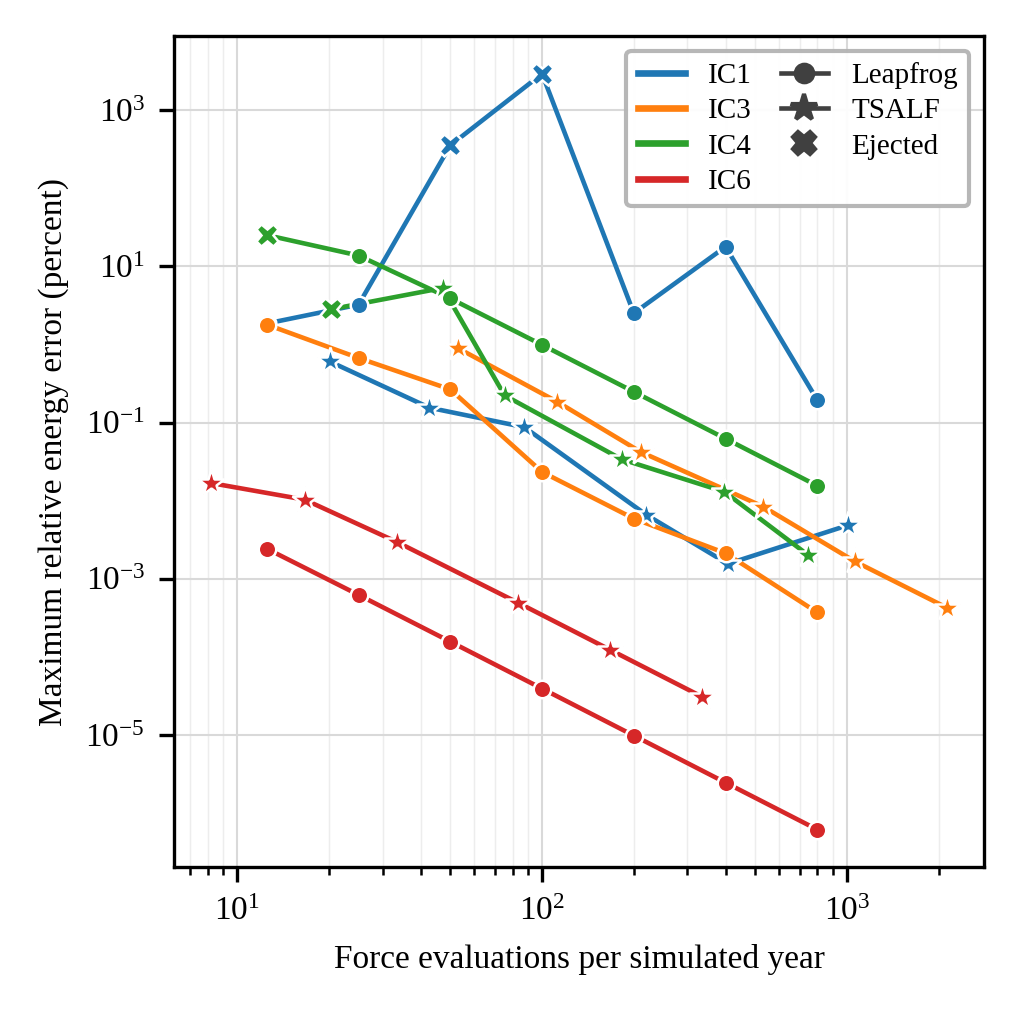
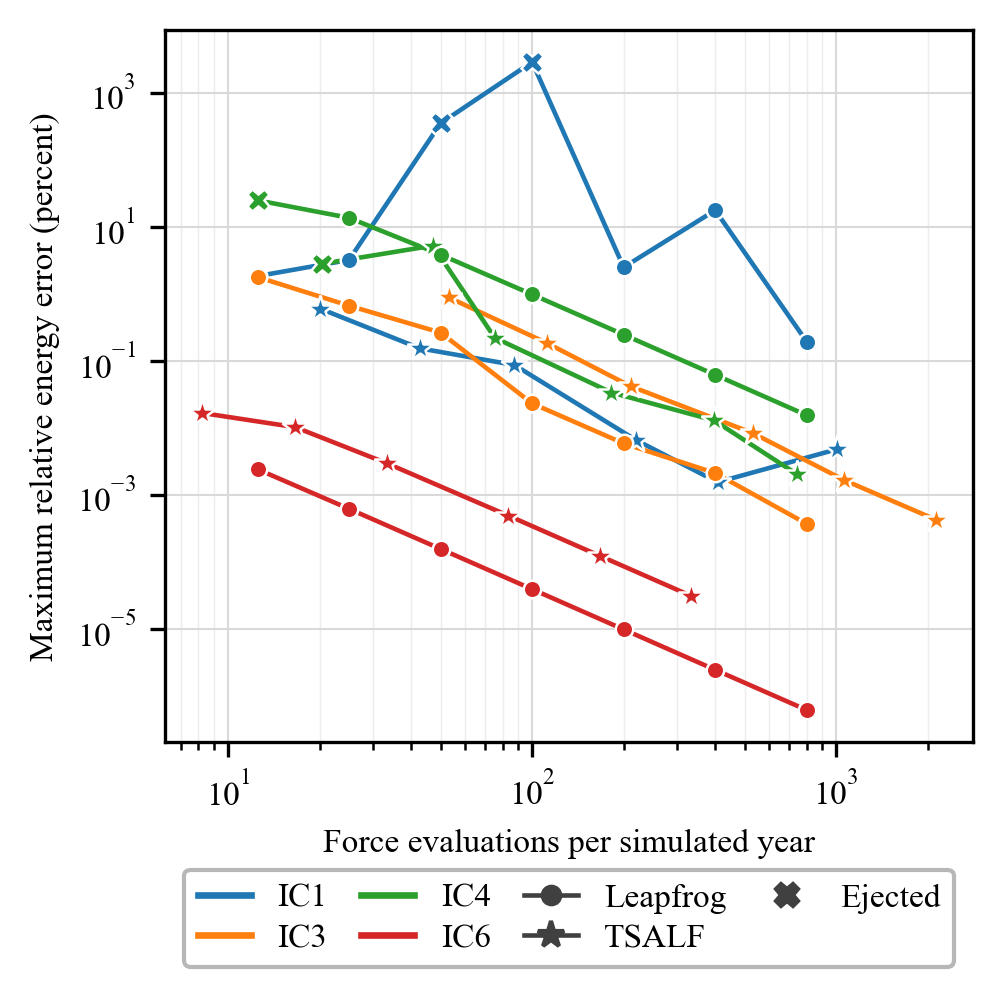
Changes in figures and citation

diff --git a/scripts/make_fig3.py b/scripts/make_fig3.py
@@ -7,21 +7,34 @@ TSALF cost, so above one means TSALF is the cheaper method.
 
 Reads the table written by make_speed_table_ns5001.py and re-runs nothing.
 
+UNITS. Panel (a) is matched on maximum relative energy error, which is a
+percentage. Panel (b) is matched on short-horizon position RMS, which is a
+distance in the dimensionless units of Table I (G = 1), not a percentage.
+
 PINNED POINTS. A matched-accuracy ratio only means something when both methods
 were actually run at a setting that meets the target. When a method's coarsest
 setting tested already beats the target, the table reports the cost of that
 coarsest run, which is an upper bound on what the method would need, not a
-measurement of what it needs. Those points are drawn as open markers here. On
+measurement of what it needs. Those points are drawn as open circles here. On
 IC6 in the energy panel every point is of this kind, because leapfrog at
-dt = 0.08 is already at 0.00242 percent and TSALF at eta = 0.2 is already at
-0.0168 percent, so the flat 1.53 ratio is just 1251 divided by 820, the ratio
-of the two cheapest runs in the sweep. It is not evidence that TSALF is cheaper
-on IC6, and it does not contradict Fig. 1: IC6 needs no refinement from either
-method, so the matched-accuracy question does not bind there.
+dt = 0.08 is already at 0.00242 percent, below every target in the panel, so
+its cost is pinned at 1251 force evaluations throughout. At the four coarsest
+targets TSALF is likewise pinned, at eta = 0.2 and 820 force evaluations, so
+the 1.53 ratio there is just 1251 divided by 820, the ratio of the two cheapest
+runs in the sweep. It is not evidence that TSALF is cheaper on IC6, and it does
+not contradict Fig. 1: IC6 needs no refinement from either method, so the
+matched-accuracy question does not bind there.
+
+UNREACHABLE TARGETS. Some targets fixed-step leapfrog never meets while every
+body stays bound, however fine the timestep, so the cost ratio is not a finite
+number and there is nowhere on the axis to put it. Those points sit in a
+narrow panel past an axis break, under the tick "never". The break marks say
+the axis is cut there, so the squares are not read as very large ratios.
 
 Drawn to the CJSJ template's figure specification: single column width, 8 point
-Times New Roman, axis labels in words rather than symbols or abbreviations,
-units in parentheses, no chart title, 300 dpi.
+Times New Roman throughout including the legend and every in-plot note, axis
+labels in words rather than symbols or abbreviations, units in parentheses, no
+chart title, 300 dpi.
 
 Usage:  python make_fig3.py [speed_table.txt] [out.png]
 """
@@ -29,6 +42,7 @@ import sys, os, re
 import matplotlib; matplotlib.use("Agg")
 import matplotlib.pyplot as plt
 from matplotlib.lines import Line2D
+from matplotlib.gridspec import GridSpec
 
 HERE = os.path.dirname(os.path.abspath(__file__))
 ROOT = os.path.dirname(HERE)
@@ -77,28 +91,39 @@ for line in TEXT.splitlines():
         unre[cfg][mode].append(float(m.group(1)))
 
 # ---------------------------------------------------------------- draw
+PT = 8
 plt.rcParams.update({
     "font.family": "serif",
     "font.serif": ["Times New Roman", "Liberation Serif", "Nimbus Roman", "DejaVu Serif"],
-    "font.size": 8, "axes.linewidth": 0.8,
-    "xtick.labelsize": 8, "ytick.labelsize": 8,
-    "legend.fontsize": 7, "axes.labelsize": 8,
+    "font.size": PT, "axes.linewidth": 0.8,
+    "xtick.labelsize": PT, "ytick.labelsize": PT,
+    "legend.fontsize": PT, "axes.labelsize": PT, "axes.titlesize": PT,
+    "mathtext.fontset": "custom", "mathtext.rm": "Times New Roman",
+    "mathtext.it": "Times New Roman:italic",
 })
 COLUMN_IN = 3.4
-fig, axs = plt.subplots(2, 1, figsize=(COLUMN_IN, COLUMN_IN * 1.48))
+fig = plt.figure(figsize=(COLUMN_IN, 4.55))
+gs = GridSpec(2, 2, figure=fig, width_ratios=[1, 0.13], wspace=0.06,
+              hspace=0.52, left=0.215, right=0.975, top=0.960, bottom=0.215)
+
 PANELS = [
-    (axs[0], "energy", "Target maximum relative\nenergy error (percent)",
-     "(a) Matched on energy error"),
-    (axs[1], "rms", "Target short-horizon\nposition error",
-     "(b) Matched on short-horizon position error"),
+    (0, "energy", "Target maximum relative\nenergy error (percent)",
+     "(a) Matched on energy error",
+     [1.0, 0.3, 0.1, 0.03, 0.01], ["1.0", "0.3", "0.1", "0.03", "0.01"],
+     [0.3, 1, 3, 10], ["0.3", "1", "3", "10"]),
+    (1, "rms", "Target short-horizon position\nerror (dimensionless units)",
+     "(b) Matched on position error",
+     [0.05, 0.02, 0.01, 0.005, 0.002], ["0.05", "0.02", "0.01", "0.005", "0.002"],
+     [0.3, 0.5, 0.7, 1.0], ["0.3", "0.5", "0.7", "1.0"]),
 ]
 seen = {}
-for ax, mode, ylab, title in PANELS:
+for row, mode, ylab, title, yticks, ylabels, xticks, xlabels in PANELS:
+    ax = fig.add_subplot(gs[row, 0])
+    bx = fig.add_subplot(gs[row, 1], sharey=ax)
     xs = [r for c in CFG for _, r, _ in data[c][mode]]
-    if not xs: continue
     lo, hi = min(xs), max(xs)
-    edge = hi * 2.6                                   # parking spot for unreachable
     any_un = any(unre[c][mode] for c in CFG)
+
     for c in CFG:
         pts = sorted(data[c][mode])
         if pts:
@@ -114,41 +139,57 @@ for ax, mode, ylab, title in PANELS:
                             mec="white", mew=0.5, ls="none", zorder=4)
         for t in unre[c][mode]:
             seen["un"] = True
-            ax.plot([edge], [t], marker="s", ms=4.6, mfc="none", mew=1.1,
-                    color=COL[c], ls="none", zorder=4)
+            bx.plot([0.5], [t], marker="s", ms=4.6, mfc="none", mew=1.1,
+                    color=COL[c], ls="none", zorder=4, clip_on=False)
+
     ax.axvline(1.0, color="k", lw=0.9, ls=":", zorder=1)
-    if any_un:
-        ax.axvspan(hi * 1.6, edge * 1.5, color="0.92", zorder=0)
     ys = [t for c in CFG for t, _, _ in data[c][mode]] + [t for c in CFG for t in unre[c][mode]]
     ax.set_xscale("log"); ax.set_yscale("log"); ax.invert_yaxis()
-    ax.set_xlim(lo / 1.8, edge * 1.5)
-    ax.set_ylim(max(ys) * 1.55, min(ys) / 1.55)
-    ax.set_xlabel("Cost ratio, leapfrog divided by TSALF", labelpad=2)
-    ax.set_ylabel(ylab, labelpad=2, fontsize=7.5)
-    ax.set_title(title, fontsize=8, loc="left", pad=3)
+    ax.set_xlim(lo / 1.9, hi * 1.9)
+    ax.set_ylim(max(ys) * 1.7, min(ys) / 1.7)
+    ax.set_yticks(yticks); ax.set_yticklabels(ylabels)
+    ax.set_yticks([], minor=True)
+    ax.set_xticks(xticks); ax.set_xticklabels(xlabels)
+    ax.set_xticks([], minor=True)
+    ax.set_ylabel(ylab, labelpad=2)
+    ax.set_title(title, loc="left", pad=3)
     ax.grid(alpha=0.25, which="both", lw=0.4, zorder=0)
-    ax.text(0.015, 0.035, "leapfrog cheaper", transform=ax.transAxes,
-            fontsize=6, color="0.35")
-    ax.text(0.985, 0.035, "TSALF cheaper", transform=ax.transAxes,
-            fontsize=6, color="0.35", ha="right")
+    ax.text(0.015, 0.030, "leapfrog cheaper", transform=ax.transAxes, color="0.35")
+    ax.text(0.985, 0.030, "TSALF cheaper", transform=ax.transAxes,
+            color="0.35", ha="right")
+    # x label centred under the pair of axes
+    ax.set_xlabel("Cost ratio, leapfrog divided by TSALF", labelpad=2, x=0.565)
+
+    # the narrow off-scale panel, past an axis break
+    bx.set_xlim(0, 1)
+    bx.set_xticks([0.5]); bx.set_xticklabels(["never"])
+    bx.tick_params(axis="y", which="both", left=False, labelleft=False)
+    bx.grid(axis="y", alpha=0.25, which="both", lw=0.4, zorder=0)
+    ax.spines["right"].set_visible(False)
+    bx.spines["left"].set_visible(False)
+    if not any_un:
+        bx.set_visible(False)
+        ax.spines["right"].set_visible(True)
+        ax.set_xlabel("Cost ratio, leapfrog divided by TSALF", labelpad=2, x=0.5)
+        continue
+    # break marks on the facing spines
+    kw = dict(marker=[(-1, -0.6), (1, 0.6)], ms=5, ls="none", mec="k", mew=0.9,
+              color="k", clip_on=False)
+    ax.plot([1, 1], [0, 1], transform=ax.transAxes, **kw)
+    bx.plot([0, 0], [0, 1], transform=bx.transAxes, **kw)
 
 # one shared legend for both panels
 h = [Line2D([], [], color=COL[c], lw=1.1, marker="o", ms=3.6,
-            ls="--" if c == "IC1" else "-",
-            label=c + (" (dashed: interpolated\nacross the ejection band)" if c == "IC1" else ""))
-     for c in CFG]
+            ls="--" if c == "IC1" else "-", label=c) for c in CFG]
 if seen.get("pin"):
     h.append(Line2D([], [], color="0.4", marker="o", ms=4.4, mfc="white", mew=1.1,
-                    ls="none", label="target already met at the\ncoarsest setting tested"))
-if seen.get("un"):
-    h.append(Line2D([], [], color="0.4", marker="s", ms=4.6, mfc="none", mew=1.1,
-                    ls="none", label="leapfrog cannot reach this\ntarget while bounded"))
-fig.legend(handles=h, fontsize=6, loc="lower center", ncol=3, framealpha=0.95,
-           handlelength=1.8, labelspacing=0.35, columnspacing=1.0, borderpad=0.4,
-           bbox_to_anchor=(0.5, 0.0))
+                    ls="none", label="target already met at the coarsest setting"))
+fig.legend(handles=h[:4], loc="lower center", ncol=4, frameon=False,
+           handlelength=1.9, columnspacing=1.0, handletextpad=0.5,
+           bbox_to_anchor=(0.5, 0.058))
+fig.legend(handles=h[4:], loc="lower center", ncol=1, frameon=False,
+           handlelength=1.9, handletextpad=0.5, bbox_to_anchor=(0.5, 0.002))
 
-fig.tight_layout(rect=[0, 0.155, 1, 1])
-fig.subplots_adjust(hspace=0.55)
 os.makedirs(os.path.dirname(os.path.abspath(OUT)), exist_ok=True)
 fig.savefig(OUT, dpi=300)
 print("wrote", OUT)

diff --git a/scripts/make_fig1.py b/scripts/make_fig1.py
@@ -64,7 +64,7 @@ plt.rcParams.update({
     "font.size": 8,
     "axes.linewidth": 0.8,
     "xtick.labelsize": 8, "ytick.labelsize": 8,
-    "legend.fontsize": 7,
+    "legend.fontsize": 8,
     "axes.labelsize": 8,
 })
 COLUMN_IN = 3.4                      # CJSJ two-column text block, one column
@@ -101,13 +101,15 @@ handles += [
     Line2D([0], [0], color="0.25", marker="*", markersize=6.5, lw=1.1, label="TSALF"),
     Line2D([0], [0], color="0.25", marker="X", markersize=5.5, lw=0, label="Ejected"),
 ]
-ax.legend(handles=handles, loc="upper right", fontsize=7, ncol=2,
-          framealpha=0.95, edgecolor="0.7", borderpad=0.4, labelspacing=0.3,
-          handlelength=1.6, columnspacing=1.0)
+# key below the axes: at 8 point the box no longer fits inside without
+# covering the IC1 ejection band, which is the point of the figure
+ax.legend(handles=handles, loc="upper center", bbox_to_anchor=(0.5, -0.155),
+          fontsize=8, ncol=4, framealpha=0.95, edgecolor="0.7", borderpad=0.4,
+          labelspacing=0.3, handlelength=1.6, columnspacing=1.0)
 
 fig.tight_layout()
 os.makedirs(os.path.dirname(os.path.abspath(OUT)), exist_ok=True)
-fig.savefig(OUT, dpi=300)
+fig.savefig(OUT, dpi=300, bbox_inches="tight")
 print("wrote", OUT)
 for c in CFG:
     n_lf, n_ts = len(data[c]["leapfrog"]), len(data[c]["tsalf"])

diff --git a/scripts/make_fig4.py b/scripts/make_fig4.py
@@ -88,7 +88,7 @@ plt.rcParams.update({
     "font.serif": ["Times New Roman", "Liberation Serif", "Nimbus Roman", "DejaVu Serif"],
     "font.size": 8, "axes.linewidth": 0.8,
     "xtick.labelsize": 8, "ytick.labelsize": 8,
-    "legend.fontsize": 7, "axes.labelsize": 8,
+    "legend.fontsize": 8, "axes.labelsize": 8,
 })
 COLUMN_IN = 3.4                      # CJSJ two-column text block, one column
 fig, ax = plt.subplots(figsize=(COLUMN_IN, COLUMN_IN * 1.06))
@@ -101,7 +101,7 @@ ax.set_xlabel("Time (years)", labelpad=3)
 ax.set_ylabel("Earth to Moon separation (AU)", labelpad=3)
 ax.grid(alpha=0.25, which="both", lw=0.4)
 # key below the axes: see the module docstring
-ax.legend(fontsize=6.2, loc="upper center", bbox_to_anchor=(0.5, -0.20), ncol=2,
+ax.legend(fontsize=8, loc="upper center", bbox_to_anchor=(0.5, -0.19), ncol=2,
           framealpha=0.95, edgecolor="0.7", handlelength=1.8, labelspacing=0.3,
           columnspacing=1.2, borderpad=0.4)
 fig.tight_layout()

diff --git a/scripts/make_fig2.py b/scripts/make_fig2.py
@@ -76,7 +76,7 @@ plt.rcParams.update({
     "font.size": 8,
     "axes.linewidth": 0.8,
     "xtick.labelsize": 8, "ytick.labelsize": 8,
-    "legend.fontsize": 7, "axes.labelsize": 8,
+    "legend.fontsize": 8, "axes.labelsize": 8,
 })
 COLUMN_IN = 3.4                      # CJSJ two-column text block, one column
 fig, ax = plt.subplots(figsize=(COLUMN_IN, COLUMN_IN))
@@ -119,8 +119,8 @@ handles += [
     Line2D([0], [0], color="0.25", marker="D", markersize=4.6, lw=0, label="IAS15"),
     Line2D([0], [0], color="0.25", marker="X", markersize=5.5, lw=0, label="Ejected"),
 ]
-ax.legend(handles=handles, loc="upper right", fontsize=7, ncol=2,
-          title="Binary separation", title_fontsize=7,
+ax.legend(handles=handles, loc="upper right", fontsize=8, ncol=2,
+          title="Binary separation", title_fontsize=8,
           framealpha=0.95, edgecolor="0.7", borderpad=0.4, labelspacing=0.3,
           handlelength=1.6, columnspacing=1.0)
 
